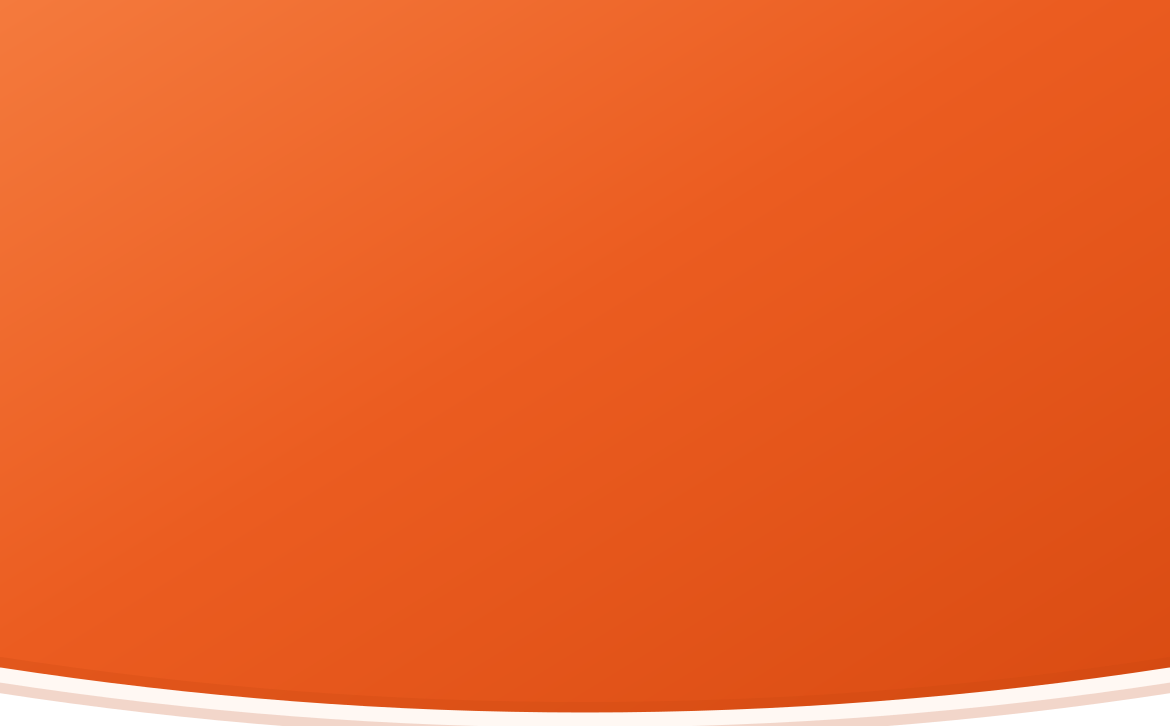
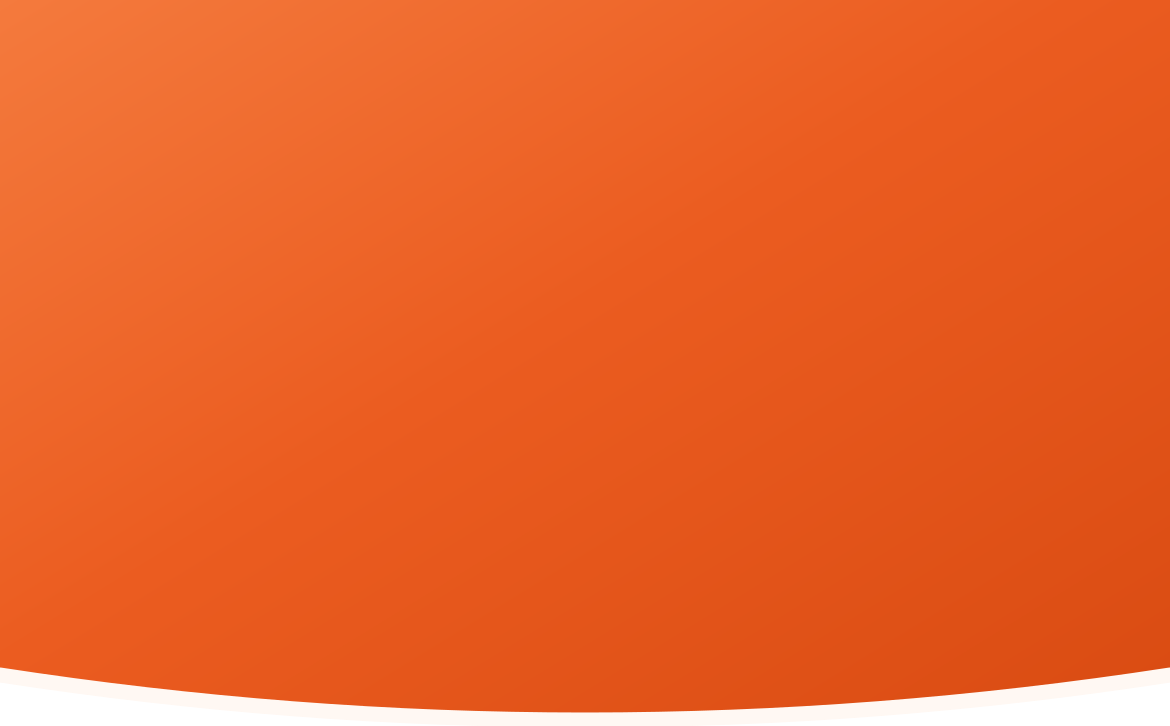
fix: 优化验收报告页玻璃动画与我的页橙色头部
验收报告页：项目卡改为液态玻璃并增加内容/统计/报告卡入场动画，顶部留出呼吸空间；报告列表保持不透明暖白卡避免长列表模糊卡顿。\n\n我的页：橙色 hero 高度恢复为 safeTop+175，移除 hero 图片内置深色描边与资料卡外投影，避免橙白交界处的阴影带。

Changed region(s): [[0.6462, 0.9394, 1.0, 1.0], [0.0, 0.9394, 0.3692, 1.0]]

diff --git a/miniapp/src/pages/acceptance/reports.vue b/miniapp/src/pages/acceptance/reports.vue
@@ -1,6 +1,6 @@
 <template>
   <view class="page">
-    <view class="hero" :style="{ height: `${safeTop + 60}px` }" />
+    <view class="hero" :style="{ height: `${safeTop + 64}px` }" />
     <view class="nav" :style="{ paddingTop: `${safeTop + 6}px` }">
       <view class="nav-back" @tap="goBack">
         <text class="nav-back-glyph">‹</text>
@@ -12,7 +12,7 @@
       <view v-else class="nav-switch-placeholder" />
     </view>
 
-    <view class="content">
+    <view class="content gc-stagger">
       <!-- 当前项目 -->
       <view v-if="project" class="project-card">
         <text class="project-eyebrow">当前项目</text>
@@ -453,7 +453,11 @@ function roleLabelOf(role) {
   position: relative;
   min-height: 100vh;
   padding-bottom: calc(#{dp(28)} + env(safe-area-inset-bottom));
-  background: #faf7f4;
+  /* 近白画布上给玻璃一点可折射的暖色光晕 */
+  background:
+    radial-gradient(62% 24% at 94% 15%, rgba(235, 92, 32, 0.12) 0%, rgba(235, 92, 32, 0) 72%),
+    radial-gradient(48% 22% at 2% 34%, rgba(255, 180, 143, 0.16) 0%, rgba(255, 180, 143, 0) 72%),
+    #faf7f4;
   overflow-x: hidden;
 }
 
@@ -518,15 +522,17 @@ function roleLabelOf(role) {
 .content {
   position: relative;
   z-index: 3;
-  padding: dp(12) dp(14) 0;
+  /* 顶部留出呼吸空间：项目卡不再贴着橙色导航底边 */
+  padding: dp(30) dp(14) 0;
 }
 
 .project-card {
   padding: dp(16);
-  border: 1px solid rgba(255, 253, 250, 0.6);
-  border-radius: dp(18);
-  background: #fffdfb;
-  box-shadow: 0 dp(8) dp(24) rgba(94, 52, 25, 0.08);
+  @include glass-surface(dp(18), 24px);
+  background-color: rgba(255, 250, 245, 0.7);
+  box-shadow:
+    0 dp(10) dp(26) rgba(94, 52, 25, 0.09),
+    inset 0 1px 0 rgba(255, 255, 255, 0.64);
 }
 
 .project-eyebrow {
@@ -568,6 +574,26 @@ function roleLabelOf(role) {
 .summary-item {
   flex: 1;
   text-align: center;
+  animation: report-stat-in 460ms cubic-bezier(0.22, 1, 0.36, 1) both;
+}
+
+.summary-item:nth-child(2) {
+  animation-delay: 60ms;
+}
+
+.summary-item:nth-child(3) {
+  animation-delay: 120ms;
+}
+
+@keyframes report-stat-in {
+  from {
+    opacity: 0;
+    transform: translateY(dp(6));
+  }
+  to {
+    opacity: 1;
+    transform: translateY(0);
+  }
 }
 
 .summary-item + .summary-item {
@@ -605,6 +631,15 @@ function roleLabelOf(role) {
   font-size: dp(11);
   white-space: nowrap;
   flex-shrink: 0;
+  transition:
+    background-color 200ms ease,
+    border-color 200ms ease,
+    color 200ms ease,
+    transform 160ms ease;
+}
+
+.filter-chip:active {
+  transform: scale(0.96);
 }
 
 .filter-chip--active {
@@ -641,14 +676,51 @@ function roleLabelOf(role) {
   align-items: center;
   margin-bottom: dp(10);
   padding: dp(13);
+  /* 长列表不用 backdrop-filter：报告数量可能很多，逐卡模糊在低端机上会拖慢滚动 */
   border: 1px solid #f1e9e2;
   border-radius: dp(16);
-  background: #fff;
-  box-shadow: 0 dp(4) dp(14) rgba(94, 52, 25, 0.04);
+  background: linear-gradient(160deg, #fffdfb 0%, #fffaf6 100%);
+  box-shadow:
+    0 dp(4) dp(14) rgba(94, 52, 25, 0.05),
+    inset 0 1px 0 rgba(255, 255, 255, 0.7);
+  animation: report-card-in 420ms cubic-bezier(0.22, 0.61, 0.36, 1) both;
+  transition:
+    background 200ms ease,
+    box-shadow 200ms ease;
 }
 
 .report-card:active {
-  background: #fffaf6;
+  background: linear-gradient(160deg, #fff8f2 0%, #fff3ea 100%);
+  box-shadow:
+    0 dp(3) dp(10) rgba(94, 52, 25, 0.06),
+    inset 0 1px 0 rgba(255, 255, 255, 0.58);
+}
+
+@keyframes report-card-in {
+  from {
+    opacity: 0;
+    transform: translateY(dp(10)) scale(0.985);
+  }
+  to {
+    opacity: 1;
+    transform: translateY(0) scale(1);
+  }
+}
+
+.stage-group .report-card:nth-child(2) {
+  animation-delay: 40ms;
+}
+
+.stage-group .report-card:nth-child(3) {
+  animation-delay: 80ms;
+}
+
+.stage-group .report-card:nth-child(4) {
+  animation-delay: 120ms;
+}
+
+.stage-group .report-card:nth-child(5) {
+  animation-delay: 160ms;
 }
 
 .report-icon {
@@ -758,6 +830,13 @@ function roleLabelOf(role) {
   font-size: dp(10);
   font-weight: 600;
   line-height: 1;
+  transition:
+    transform 160ms ease,
+    background-color 160ms ease;
+}
+
+.report-btn:active {
+  transform: scale(0.94);
 }
 
 .report-btn::after {

diff --git a/miniapp/src/pages/mine/index.vue b/miniapp/src/pages/mine/index.vue
@@ -1,8 +1,7 @@
 <template>
   <view class="page">
-    <!-- 橙色 hero 必须完整包住资料卡：否则卡片会骑在橙白交界上，
-         半透明玻璃会把接缝放大成一条横向色带 -->
-    <view class="hero-panel" :style="{ height: `${safeTop + 218}px` }">
+    <!-- 橙色 hero 恢复到资料卡下方的原始高度；底部只保留白色收口线，不加阴影 -->
+    <view class="hero-panel" :style="{ height: `${safeTop + 175}px` }">
       <image class="hero-bg" src="/static/images/mine-hero-bg.png" mode="scaleToFill" />
       <image class="hero-arch" src="/static/images/mine-hero-arch.png" mode="aspectFit" />
       <view class="hero-glow" />
@@ -1075,11 +1074,9 @@ function closeActiveSheet() {
 .profile-card {
   padding: dp(16);
   @include glass-surface(dp(20), 24px);
-  /* 卡片完整落在橙色 hero 内，降低白底不透明度让暖橙透出来，玻璃才看得见 */
+  /* 卡片允许跨过橙白收口线；不要再加外投影，否则会在橙色左右两侧留下阴影带 */
   background-color: rgba(255, 252, 248, 0.74);
-  box-shadow:
-    0 dp(12) dp(28) rgba(120, 45, 20, 0.13),
-    inset 0 1px 0 rgba(255, 255, 255, 0.58);
+  box-shadow: inset 0 1px 0 rgba(255, 255, 255, 0.58);
 }
 
 .profile-row {

diff --git a/miniapp/scripts/gen-assets.js b/miniapp/scripts/gen-assets.js
@@ -242,7 +242,6 @@ const MINE_HERO_BG = `<svg xmlns="http://www.w3.org/2000/svg" viewBox="0 0 390 2
 </linearGradient>
 </defs>
 <path d="M0 0 H390 V225 Q195 255 0 225 Z" fill="url(#mineHeroGrad)"/>
-<path d="M0 225 Q195 255 390 225" fill="none" stroke="#C44710" stroke-opacity="0.22" stroke-width="12" stroke-linecap="round"/>
 <path d="M0 225 Q195 255 390 225" fill="none" stroke="#FFF8F3" stroke-width="5" stroke-linecap="round"/>
 </svg>`
 

diff --git a/CLAUDE.md b/CLAUDE.md
@@ -477,10 +477,14 @@ uni-app + Vue 3 + Vite。页面与后端分离，通过 `src/config.js` 的 `API
   **不要用多段白色线性渐变做玻璃**：0.92 → 0.5 → 0.72 这种中间凹下去的写法
   在小卡片上会出现明暗色带；橙底上再叠 `border-top: 0.96` 会形成一条白边。
   玻璃表面统一用暖白（`255,251,247`）+ 单一颜色的细边框 + 柔和顶光。
-  **压在橙色 hero 上的卡片必须完整落在 hero 内**：卡片骑在橙白交界时，
-  半透明背景会把接缝放大成一条横向色带（`pages/mine` 的资料卡因此把 hero
-  高度调到刚好包住它）。纯灰/近白画布上玻璃几乎不可见，需要在页面底色里
-  埋极淡的暖色径向光晕，玻璃才有折射可读。
+  **「我的」橙色 hero 的高度按设计稿恢复为 `safeTop + 175`**：资料卡可以跨过
+  橙白收口线，不要为了把卡片完全包进橙色而把 hero 拉高（橙色会显得过重）。
+  hero 图片底部的深色描边就是那条「阴影」，已从 `scripts/gen-assets.js` 的
+  `MINE_HERO_BG` 中移除，**不要再加回来**；只保留白色收口线。
+  资料卡跨过收口线时也**不要加外投影**（`box-shadow` 的外阴影会在橙白两侧形成阴影带），
+  只保留内侧高光。
+  纯灰/近白画布上玻璃几乎不可见，需要在页面底色里埋极淡的暖色径向光晕，
+  玻璃才有折射可读。
   不支持 `backdrop-filter` 的内核会退化为暖白半透明底，不能把关键文字放在
   仅靠模糊才能区分的背景上。改动 `uni.scss` 后必须重启 `npm run dev:mp-weixin`，
   增量编译不会重新注入全局 mixin，会报 `Undefined mixin`。

diff --git a/miniapp/README.md b/miniapp/README.md
@@ -259,8 +259,8 @@ VITE_API_BASE=http://192.168.1.20:3000/api/v1 npm run dev:mp-weixin
 `pages/mine/index` 对应 Stitch 的「工程宝小程序 - 我的页面（橙色版）」，
 按品牌主色重新调色后 1:1 还原。头部橙色渐变铺满顶部与左右两侧，
 叠加白色半透明建筑线框；橙色块本身用 `mine-hero-bg.png` 收成一条**贯通页面**的
-向下弧线，并把整张资料卡包在橙色块内（卡片不能骑在橙白交界上，
-否则半透明玻璃会把接缝放大成一条横向色带）；
+向下弧线，高度保持设计稿的 `safeTop + 175`；资料卡可以跨过橙白收口线，
+但 hero 图片不再带底部深色阴影描边；
 建筑线框由 `scripts/gen-assets.js` 生成 `mine-hero-arch.png`。数据全部来自真实接口：
 
 - 资料 / 账号固定角色：`GET /auth/profile?projectId=...`，返回 `accountRole`；
@@ -404,6 +404,7 @@ VITE_API_BASE=http://192.168.1.20:3000/api/v1 npm run dev:mp-weixin
 收件箱不同，它**只展示当前项目的已通过验收报告**：
 
 - 顶部显示当前项目、地址与全部 / 阶段 / 工序报告数量；可在页面内切换项目；
+  项目卡使用 `glass-surface` 液态玻璃，页面内容与报告卡有依次入场动画；
 - 筛选：全部 / 阶段验收 / 工序验收；
 - 报告按阶段分组，阶段级报告排在该组最前；卡片显示通过时间、轮次与签名方式；
 - `reportPdf.signedPath` 可直接「查看报告」；报告未生成 / 失败时进入详情页处理；
